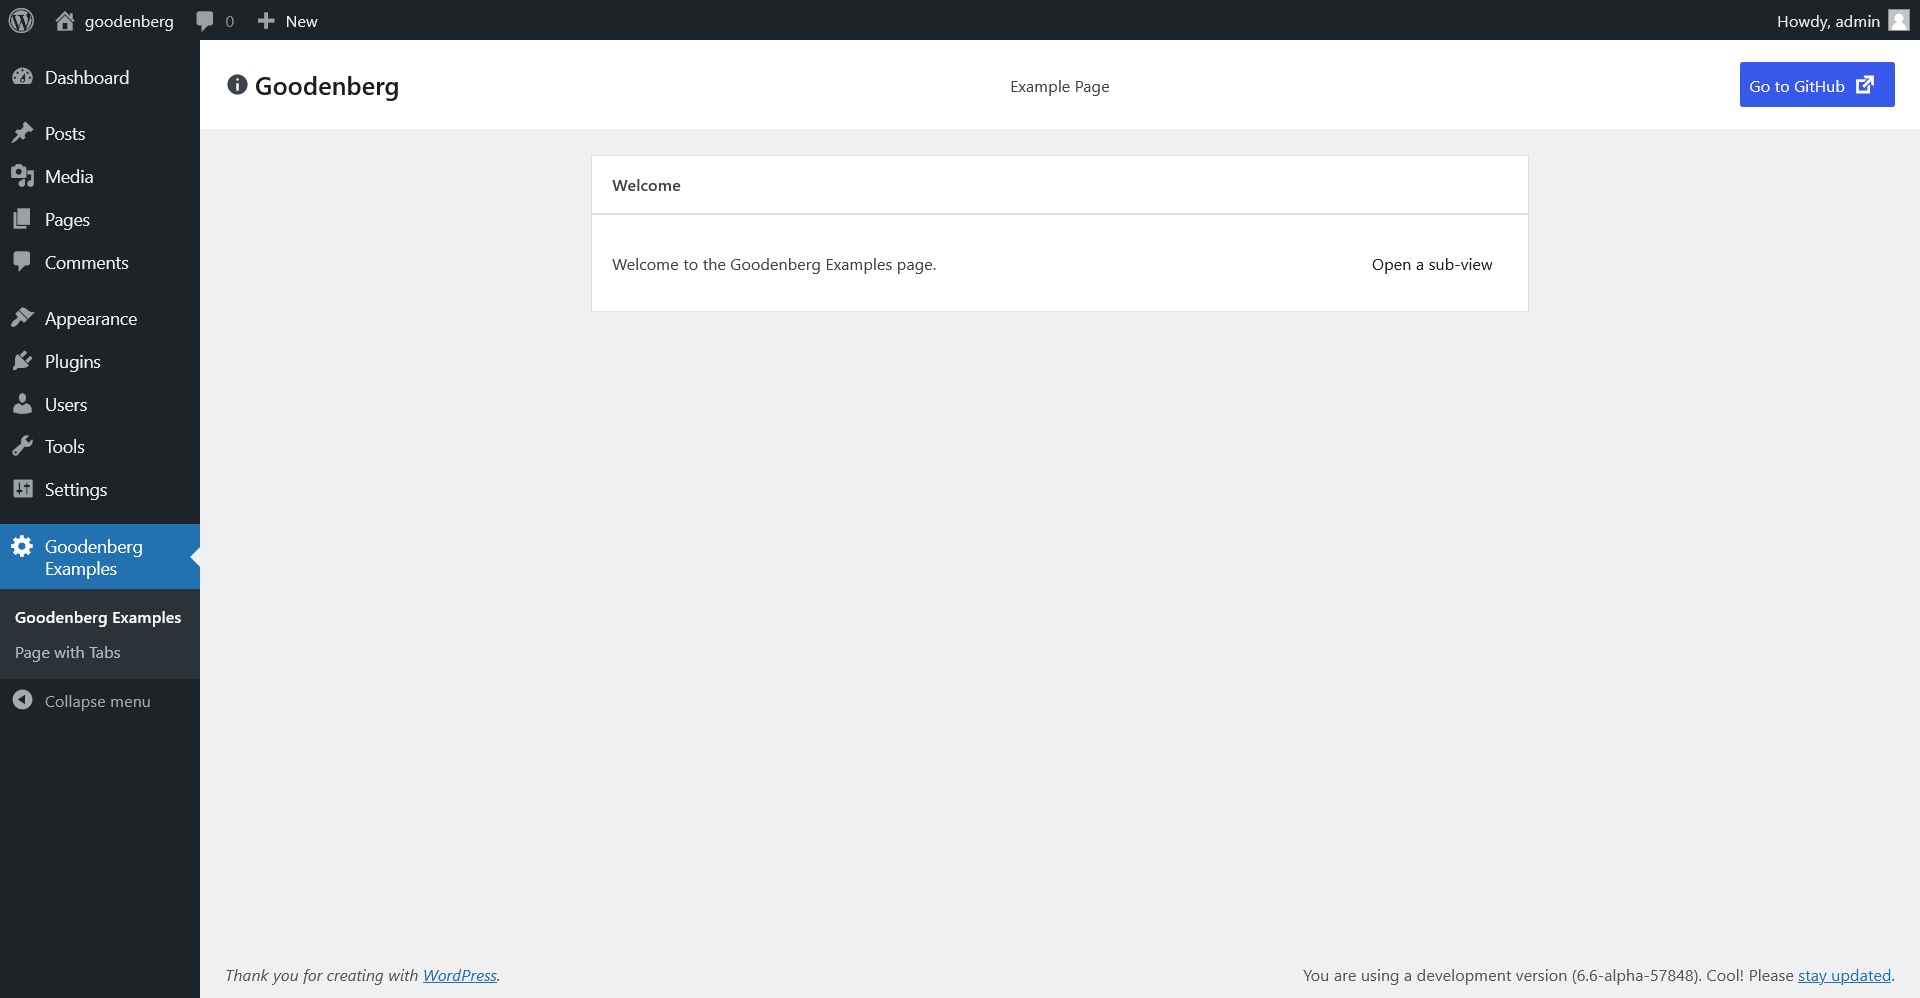
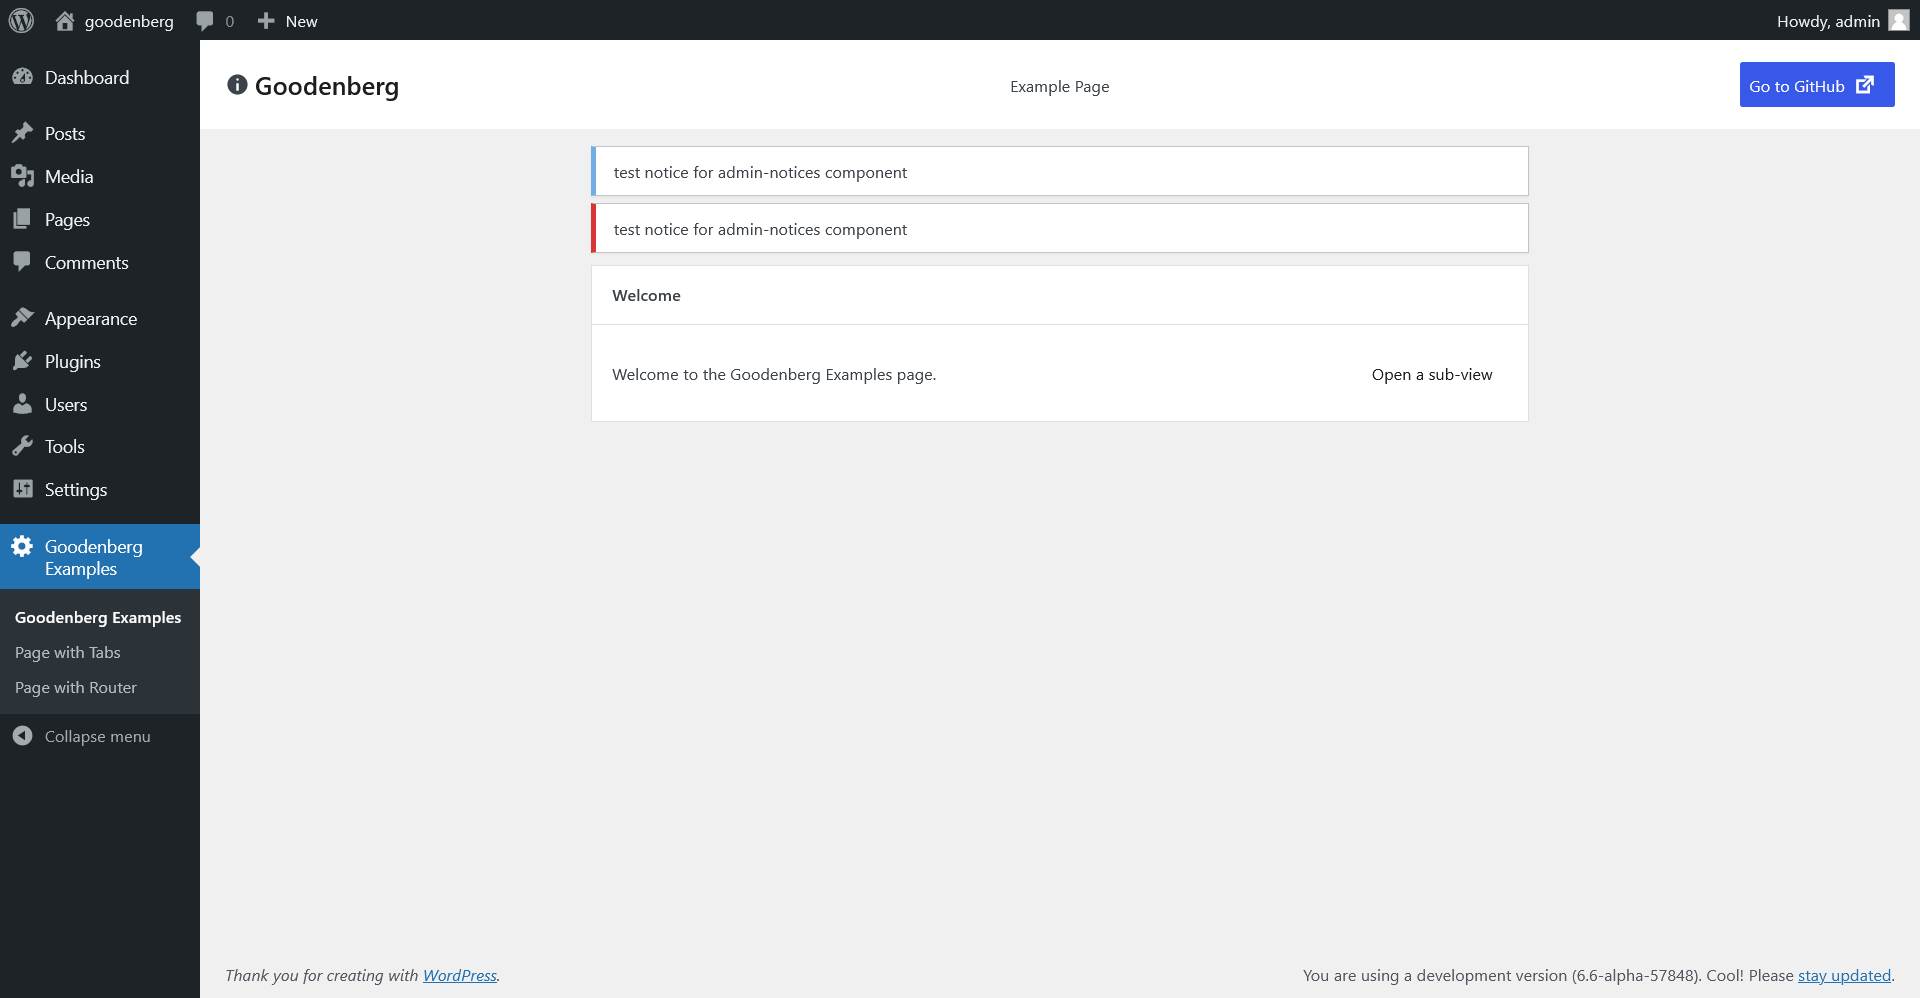
Docs: More admin pages examples

diff --git a/examples/src/admin-page-tabs/index.js b/examples/src/admin-page-tabs/index.js
@@ -3,7 +3,8 @@ import domReady from "@wordpress/dom-ready";
 import {
     Panel,
     PanelBody,
-    __experimentalVStack as VStack, Button,
+    __experimentalVStack as VStack,
+    Button,
 } from "@wordpress/components";
 import { __ } from "@wordpress/i18n";
 import {
@@ -14,7 +15,12 @@ import {
     PostsSelect,
     TermsSelect,
 } from "@goodwp/goodenberg/components/entity-records-select";
-import { Page, Container, UrlSyncedTabPanel as TabPanel } from "@goodwp/goodenberg/admin/components";
+import {
+    AdminNotices,
+    Page,
+    Container,
+    UrlSyncedTabPanel as TabPanel,
+} from "@goodwp/goodenberg/admin/components";
 
 const TABS = [
     {
@@ -30,14 +36,20 @@ const TABS = [
                     <Panel header={"Single Record Components"}>
                         <PanelBody>
                             <PostSelect
-                                label={__("Select a post", "goodenberg-examples")}
+                                label={__(
+                                    "Select a post",
+                                    "goodenberg-examples"
+                                )}
                                 postType={"post"}
                                 value={post}
                                 onSelect={setPost}
                                 loadInitial
                             />
                             <TermSelect
-                                label={__("Select a category", "goodenberg-examples")}
+                                label={__(
+                                    "Select a category",
+                                    "goodenberg-examples"
+                                )}
                                 taxonomy={"category"}
                                 value={category}
                                 onSelect={setCategory}
@@ -50,7 +62,7 @@ const TABS = [
                             <PostsSelect
                                 label={__(
                                     "Select posts",
-                                    "goodenberg-examples",
+                                    "goodenberg-examples"
                                 )}
                                 postType={"post"}
                                 values={posts}
@@ -60,7 +72,7 @@ const TABS = [
                             <TermsSelect
                                 label={__(
                                     "Select categories",
-                                    "goodenberg-examples",
+                                    "goodenberg-examples"
                                 )}
                                 taxonomy={"category"}
                                 values={categories}
@@ -96,10 +108,9 @@ const PageActions = () => {
     );
 };
 
-
 const ExamplePage = () => {
     return (
-        <Page name="goodenberg-examples" hideNotices>
+        <Page name="goodenberg-examples">
             <Page.Header
                 title={__("Goodenberg", "goodenberg-examples")}
                 icon="info"
@@ -110,7 +121,16 @@ const ExamplePage = () => {
                 tabs={TABS}
                 initialTabName={"components"}
                 children={(Tab) => {
-                    return <Container contained style={{ marginTop: "8px" }}><Tab.Component /></Container>;
+                    return (
+                        <>
+                            <Container contained>
+                                <AdminNotices />
+                            </Container>
+                            <Container contained style={{ marginTop: "8px" }}>
+                                <Tab.Component />
+                            </Container>
+                        </>
+                    );
                 }}
             />
         </Page>

diff --git a/src/admin/components/README.md b/src/admin/components/README.md
@@ -65,7 +65,7 @@ for possible props.
 
 A TabPanel which loads its initial tab from the `tab` URL Parameter and syncs changing the tab back to the URL.
 
-### Example
+## Example
 
 ```js
 import {
